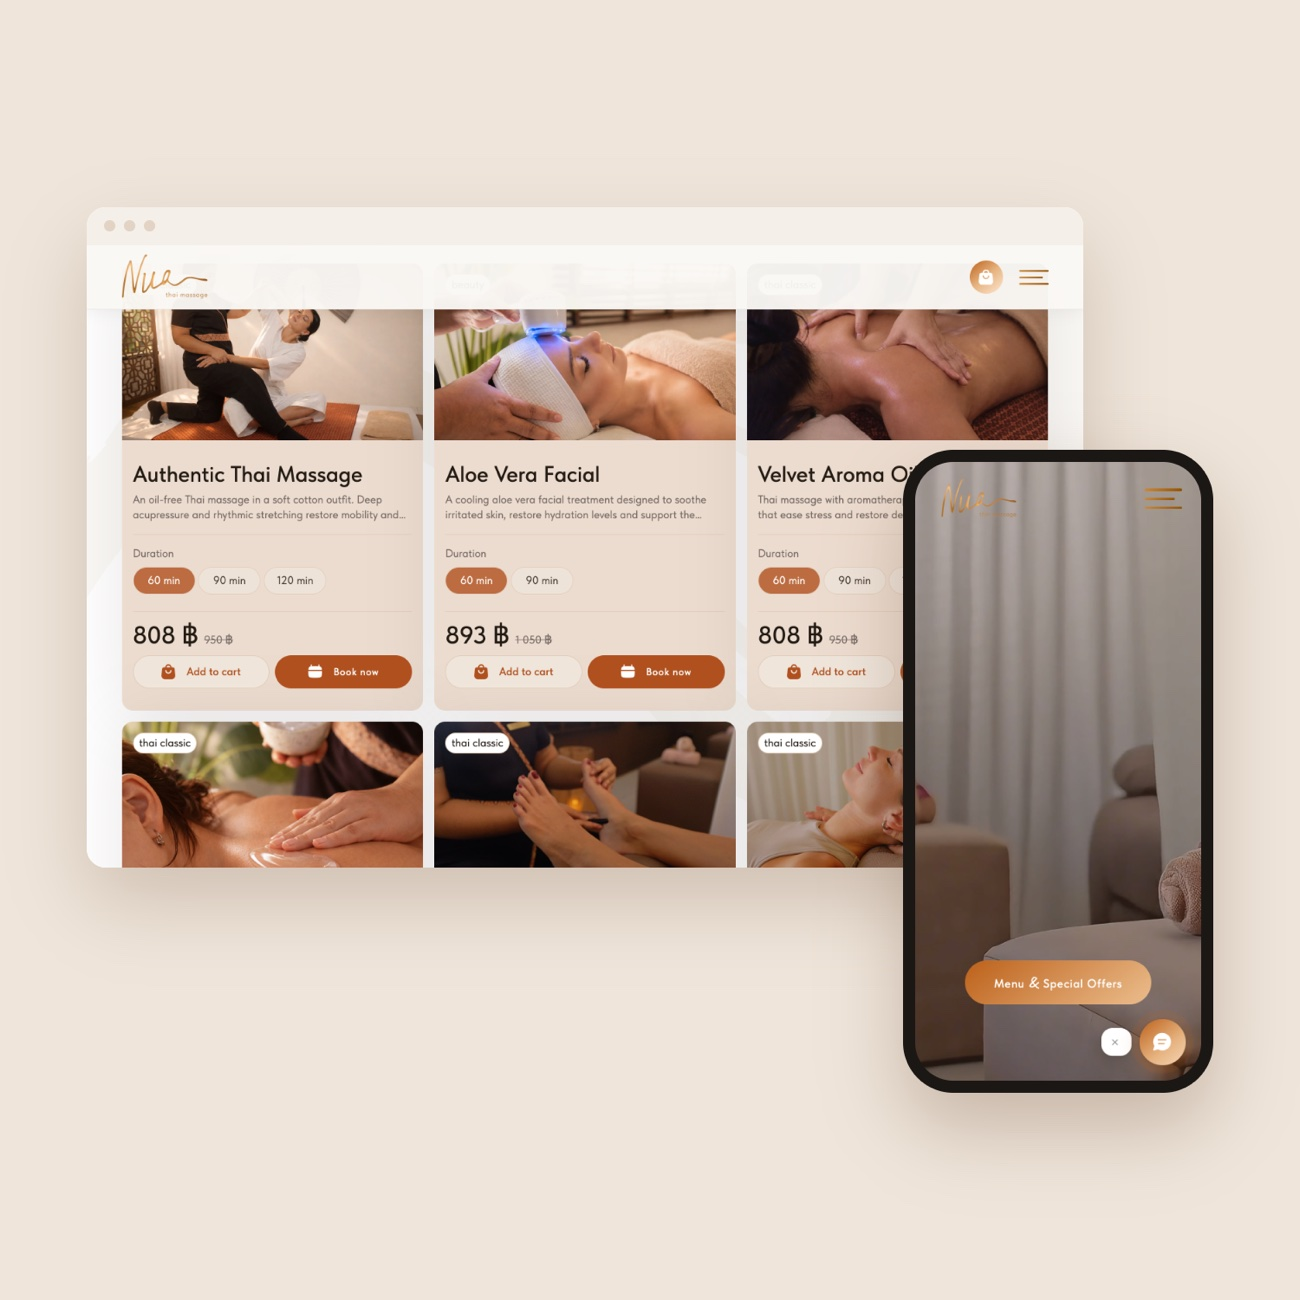
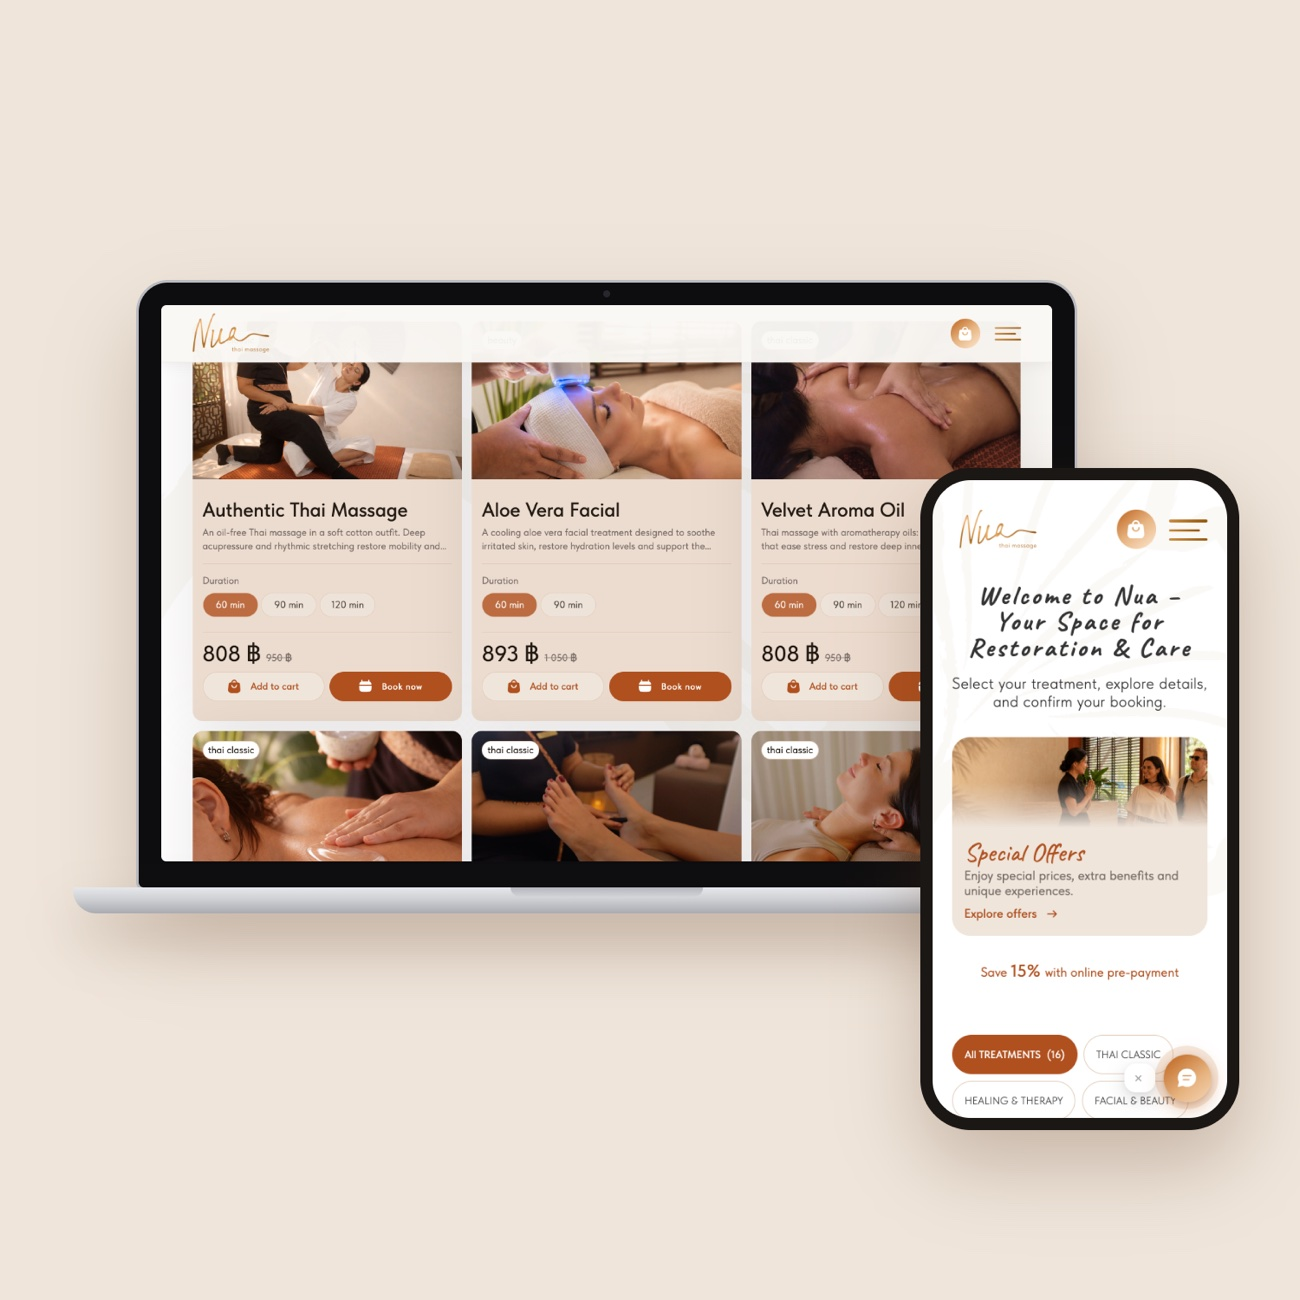
Обложка Nua: MacBook Pro и мобильный экран каталога

diff --git a/index.html b/index.html
@@ -89,7 +89,7 @@
         <h2 class="section__title">Проекты</h2>
         <div class="projects">
         <a class="project-card" href="projects/nua.html">
-          <div class="project-card__img"><img src="img/projects/nua.jpg" alt="Сайт для спа-салона Nua" loading="lazy"></div>
+          <div class="project-card__img"><img src="img/projects/nua.jpg?v=2" alt="Сайт для спа-салона Nua" loading="lazy"></div>
           <h3 class="project-card__title">Сайт для&nbsp;спа-салона Nua<span class="project-card__badge">новый</span></h3>
           <p class="project-card__text">Структура, дизайн и&nbsp;вёрстка на&nbsp;Webflow для&nbsp;салона тайского массажа с&nbsp;двумя филиалами: сложная корзина, оплата через Stripe, уведомления в&nbsp;WhatsApp</p>
         </a>
